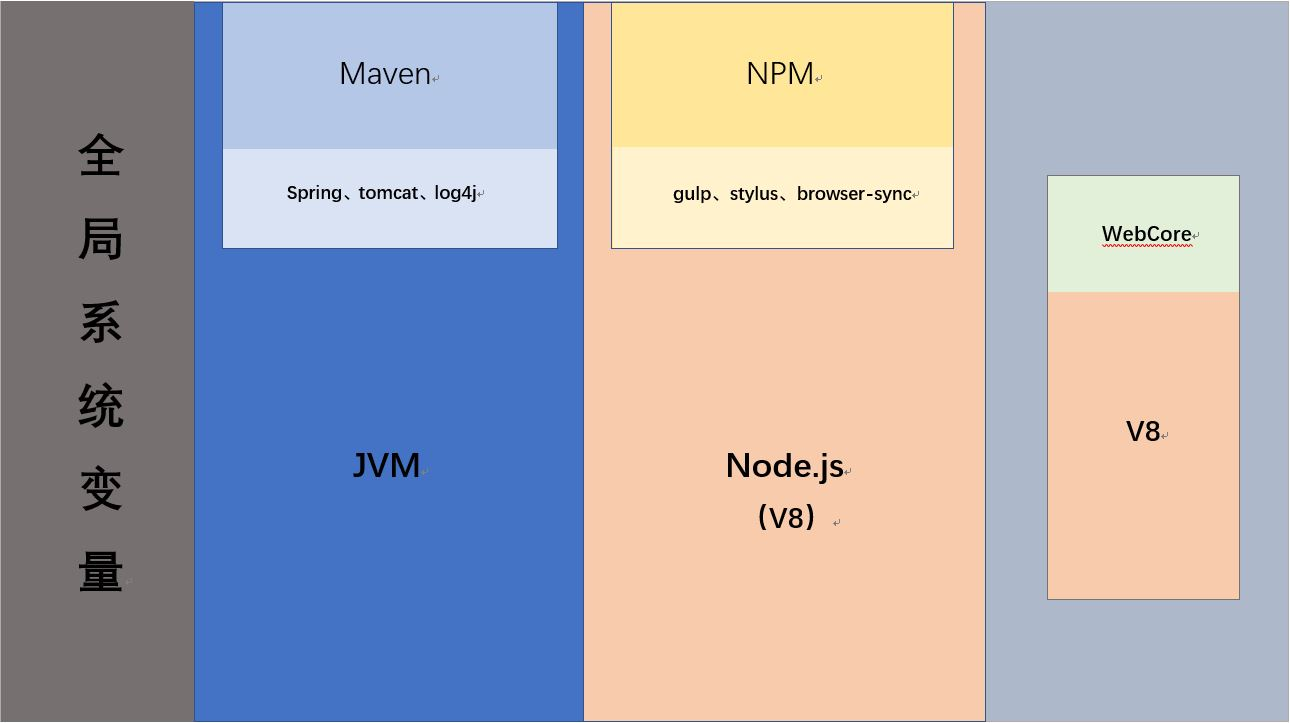
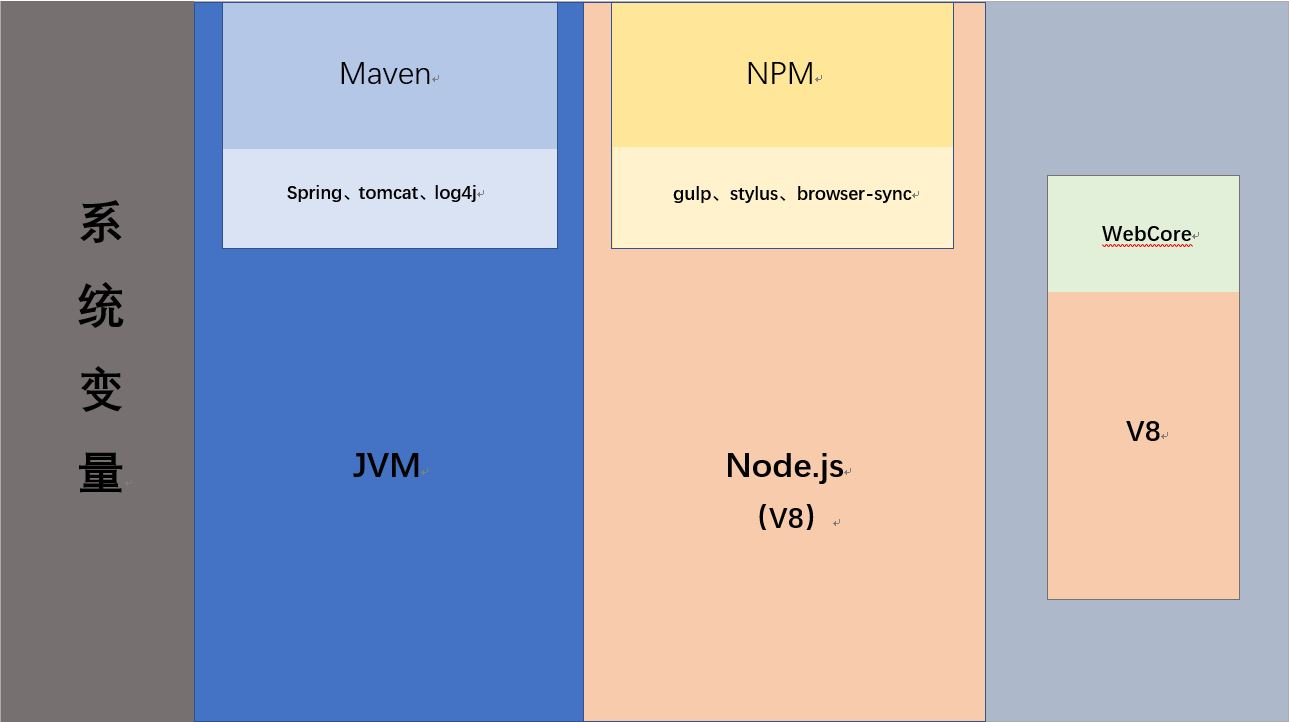
完善node概念图

diff --git a/Node.js/Node.js — 基础知识.md b/Node.js/Node.js — 基础知识.md
@@ -2,7 +2,7 @@
 #### Node.js 提供基于 V8 引擎的服务器端(系统级) JavaScript 执行环境。
 #### Node.js 提供基于 npm 的模块管理服务。
 
-
+![Node.js概念图](https://github.com/StRothschild/Front-End/blob/master/Node.js/resouces/Node.js%20%E2%80%94%20%E6%A6%82%E5%BF%B5.jpg?raw=true)
 ---
 - #### 高性能 I/O
   ##### Node.js 的一个主要特点是可以实现基于异步（并行）处理的高性能 I/O。 I/O 的概念包括了从文件系统中读写数据，也包括从数据库中读写数据。
